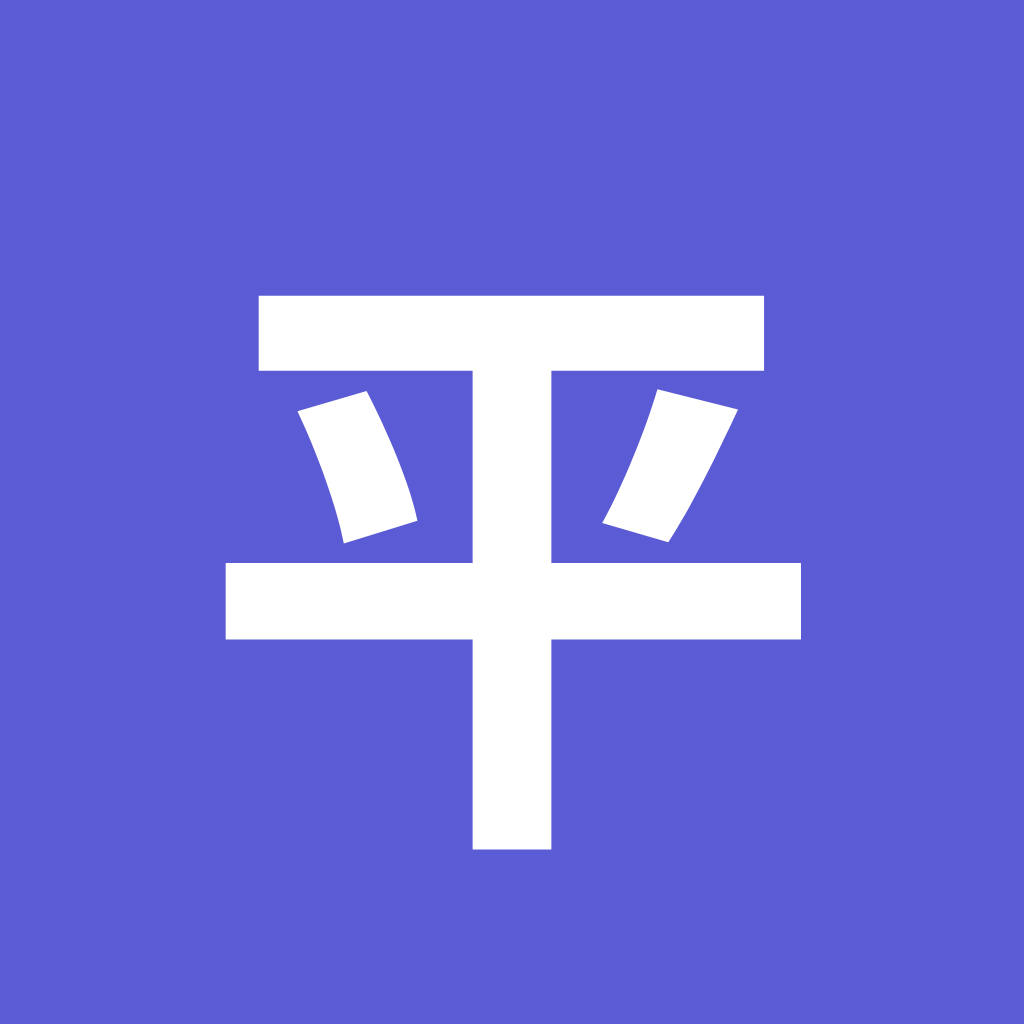
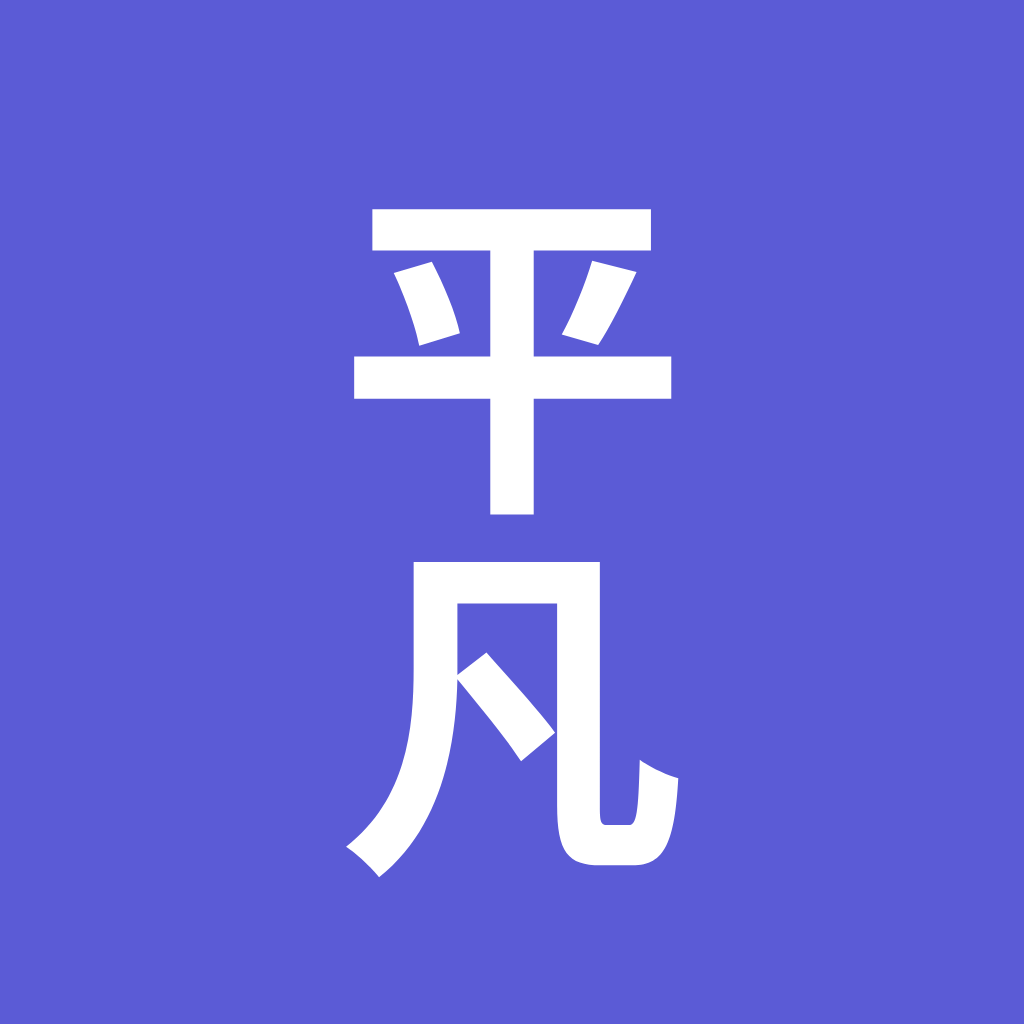
アイコンとスプラッシュを縦書き「平凡」に変更する
1文字の「平」だとApp Storeの一覧で何のアプリか伝わりにくいという指摘を受けての変更。
字間は実機のホーム画面(約60px)で2文字と判別できる値を選んだ。詰めすぎると1文字に見え、
離しすぎると文字自体が小さくなって潰れるため、4段階を並べて比較して決めた。

- generate-app-assets.js を、マークの定義1箇所から
  assets/(iOSアプリ用) と www/icons/(PWA・apple-touch-icon) の両方を焼く形に作り直す。
  二重管理して片方だけ古くなるのを防ぐ
- アルファチャンネルは生成のたびに落とし、残っていたら例外で止める
- HTML側の起動スプラッシュも同じ2文字に揃える。アイコンだけ2文字で起動画面が1文字だと、
  タップした直後に別物に見える

アイコンはアプリに焼き込まれるため、反映には再ビルドが必要。

Changed region(s): [[0.2188, 0.1875, 0.7812, 0.875]]

diff --git a/appstore/generate-app-assets.js b/appstore/generate-app-assets.js
@@ -1,12 +1,14 @@
-// アプリアイコン・スプラッシュの元画像を生成する。
-// @capacitor/assets がこの assets/ を読んで iOS の Assets.xcassets を作る。
+// アプリアイコン・スプラッシュ・PWA用アイコンを、1つの定義から焼く。
 //
 //   node appstore/generate-app-assets.js
 //
-// アイコン: www/icons/icon-1024.png からアルファチャンネルを除去して assets/icon.png へ。
-//   Appleはアプリアイコンのアルファチャンネルを許さない(実際の透過が無くても弾かれる)。
-// スプラッシュ: ブランド色の地に「平」を置いた 2732x2732 を chromium で描画する。
-//   ImageMagick では日本語フォントの有無に左右されるため、確実な chromium 側で焼く。
+// マーク(縦書き「平凡」)の定義をこのファイル1箇所に置き、
+//   assets/       … @capacitor/assets が読む元画像(CIがここから Assets.xcassets を作る)
+//   www/icons/    … PWA/Web用(manifest・apple-touch-icon)
+// の両方を生成する。二重管理して片方だけ古くなるのを防ぐ(共通標準「一つの事実源」)。
+//
+// アルファチャンネルは必ず落とす。Appleはアプリアイコンのアルファを許さず、
+// 実際の透過が0pxでもチャンネルがあるだけで弾かれる(2026-08-23に実際に該当していた)。
 const { chromium } = require('playwright-core');
 const { execFileSync } = require('node:child_process');
 const fs = require('node:fs');
@@ -14,46 +16,62 @@ const path = require('node:path');
 
 const ROOT = path.join(__dirname, '..');
 const ASSETS = path.join(ROOT, 'assets');
+const WWW_ICONS = path.join(ROOT, 'www', 'icons');
 const BRAND = '#5b5bd6';
 const ON_BRAND = '#ffffff';
-const SPLASH_SIZE = 2732; // @capacitor/assets が要求する正方形サイズ
 
-const splashHtml = (bg, fg) => `<!doctype html><meta charset="utf-8">
+// 縦書き「平凡」。字間は実機のホーム画面(約60px)で2文字と判別できる値を選んだ。
+// 詰めすぎると1文字に見え、離しすぎると文字自体が小さくなって潰れる(2026-08-23に比較)。
+const MARK_GAP_RATIO = 80 / 1024;
+const MARK_FONT_RATIO = 350 / 1024;
+
+const markHtml = (size, { bg = BRAND, fg = ON_BRAND } = {}) => `<!doctype html><meta charset="utf-8">
 <style>
   html,body{margin:0;padding:0}
-  body{width:${SPLASH_SIZE}px;height:${SPLASH_SIZE}px;background:${bg};
+  body{width:${size}px;height:${size}px;background:${bg};
        display:flex;align-items:center;justify-content:center}
-  span{color:${fg};font-size:900px;font-weight:700;line-height:1;
+  .col{display:flex;flex-direction:column;align-items:center;
+       gap:${Math.round(size * MARK_GAP_RATIO)}px;line-height:0.8}
+  span{color:${fg};font-size:${Math.round(size * MARK_FONT_RATIO)}px;font-weight:700;
        font-family:"Hiragino Sans","Yu Gothic","Noto Sans CJK JP",sans-serif}
-</style><span>平</span>`;
+</style><div class="col"><span>平</span><span>凡</span></div>`;
+
+const stripAlpha = (file) => {
+  execFileSync('convert', [file, '-background', BRAND, '-alpha', 'remove', '-alpha', 'off', `PNG24:${file}`]);
+  const b = fs.readFileSync(file);
+  if (b[25] !== 2) throw new Error(`${path.basename(file)} にアルファが残っている (colorType=${b[25]})`);
+  return `${b.readUInt32BE(16)}x${b.readUInt32BE(20)}`;
+};
 
 (async () => {
   fs.mkdirSync(ASSETS, { recursive: true });
+  fs.mkdirSync(WWW_ICONS, { recursive: true });
 
-  // --- アイコン(アルファ除去) ---
-  const src = path.join(ROOT, 'www', 'icons', 'icon-1024.png');
-  const iconOut = path.join(ASSETS, 'icon.png');
-  execFileSync('convert', [src, '-background', BRAND, '-alpha', 'remove', '-alpha', 'off',
-    '-resize', '1024x1024', `PNG24:${iconOut}`]);
-  const iconBuf = fs.readFileSync(iconOut);
-  if (iconBuf[25] !== 2) throw new Error(`アイコンにアルファが残っている (colorType=${iconBuf[25]})`);
-  console.log(`icon.png ${iconBuf.readUInt32BE(16)}x${iconBuf.readUInt32BE(20)} アルファなし`);
-
-  // --- スプラッシュ ---
   const browser = await chromium.launch({
     executablePath: process.env.CHROMIUM_PATH || '/usr/bin/chromium',
     args: ['--no-sandbox'],
   });
-  for (const [name, bg, fg] of [['splash.png', BRAND, ON_BRAND], ['splash-dark.png', BRAND, ON_BRAND]]) {
-    const page = await browser.newPage({ viewport: { width: SPLASH_SIZE, height: SPLASH_SIZE } });
-    await page.setContent(splashHtml(bg, fg), { waitUntil: 'load' });
-    await page.waitForTimeout(300);
-    const out = path.join(ASSETS, name);
+
+  const shoot = async (out, size, opts) => {
+    const page = await browser.newPage({ viewport: { width: size, height: size } });
+    await page.setContent(markHtml(size, opts), { waitUntil: 'load' });
+    await page.waitForTimeout(250);
     await page.screenshot({ path: out });
     await page.close();
-    const b = fs.readFileSync(out);
-    console.log(`${name} ${b.readUInt32BE(16)}x${b.readUInt32BE(20)}`);
-  }
+    console.log(`${path.relative(ROOT, out)} ${stripAlpha(out)}`);
+  };
+
+  // iOSアプリ用(@capacitor/assets が読む)
+  await shoot(path.join(ASSETS, 'icon.png'), 1024);
+  // スプラッシュは正方形2732pxが要求サイズ。アイコンと同じマークで揃える。
+  await shoot(path.join(ASSETS, 'splash.png'), 2732);
+  await shoot(path.join(ASSETS, 'splash-dark.png'), 2732);
+  // PWA/Web用
+  await shoot(path.join(WWW_ICONS, 'icon-1024.png'), 1024);
+  await shoot(path.join(WWW_ICONS, 'icon-512.png'), 512);
+  await shoot(path.join(WWW_ICONS, 'icon-192.png'), 192);
+  await shoot(path.join(WWW_ICONS, 'apple-touch-icon.png'), 180);
+
   await browser.close();
 })().catch((e) => {
   console.error('ERROR:', e.message);

diff --git a/www/css/style.css b/www/css/style.css
@@ -54,8 +54,13 @@ input {
   inset: 0;
   z-index: 9999;
   display: flex;
+  /* アイコン・ネイティブのスプラッシュと同じ縦書き「平凡」に揃える(2026-08-23)。
+     アイコンだけ2文字で起動画面が1文字だと、タップした直後に別物に見える。 */
+  flex-direction: column;
   align-items: center;
   justify-content: center;
+  gap: 0.25em;
+  line-height: 0.8;
   background: var(--accent);
 }
 

diff --git a/www/index.html b/www/index.html
@@ -14,7 +14,7 @@
   <link rel="stylesheet" href="css/style.css" />
 </head>
 <body>
-  <div id="splash"><span>平</span></div>
+  <div id="splash"><span>平</span><span>凡</span></div>
   <header class="app-header">
     <h1>平凡投票</h1>
     <p class="tagline">10問中、何問「みんなの多数派」と一致できるか</p>

diff --git a/www/sw.js b/www/sw.js
@@ -1,4 +1,4 @@
-const CACHE_NAME = 'heibon-vote-shell-v22';
+const CACHE_NAME = 'heibon-vote-shell-v23';
 const SHELL_ASSETS = [
   './',
   'index.html',
